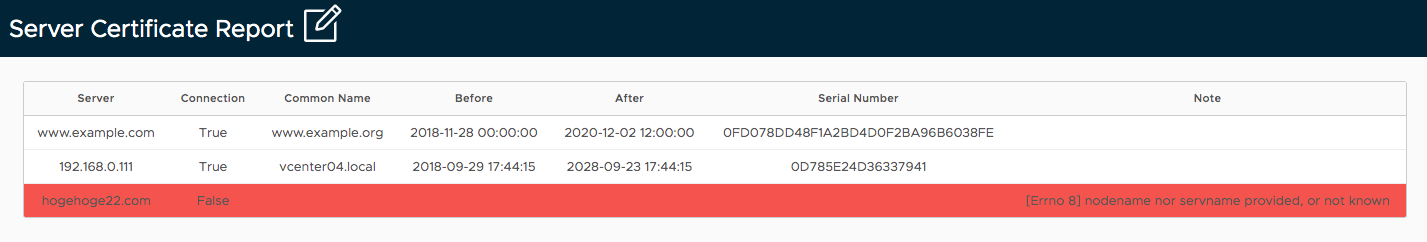
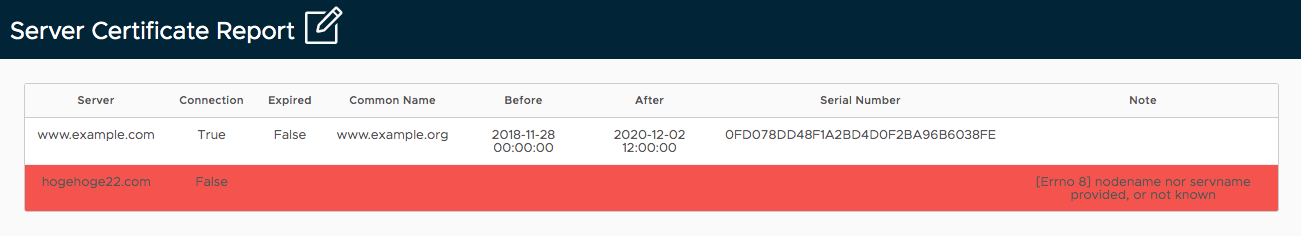
Add `Expired` column to report

diff --git a/example_server_certificate_report.html b/example_server_certificate_report.html
@@ -29,6 +29,7 @@
                         <tr>
                             <th>Server</th>
                             <th>Connection</th>
+                            <th>Expired</th>
                             <th>Common Name</th>
                             <th>Before</th>
                             <th>After</th>
@@ -40,6 +41,7 @@
                         <tr>
                             <td>www.example.com</td>
                             <td>True</td>
+                            <td>False</td>
                             <td>www.example.org</td>
                             <td>2018-11-28 00:00:00</td>
                             <td>2020-12-02 12:00:00</td>
@@ -47,17 +49,9 @@
                             <td></td>
                         </tr>
                         <tr>
-                            <td>192.168.0.111</td>
-                            <td>True</td>
-                            <td>vcenter04.local</td>
-                            <td>2018-09-29 17:44:15</td>
-                            <td>2028-09-23 17:44:15</td>
-                            <td>0D785E24D36337941</td>
-                            <td></td>
-                        </tr>
-                        <tr>
                             <td bgcolor="#F54F47">hogehoge22.com</td>
                             <td bgcolor="#F54F47">False</td>
+                            <td bgcolor="#F54F47"></td>
                             <td bgcolor="#F54F47"></td>
                             <td bgcolor="#F54F47"></td>
                             <td bgcolor="#F54F47"></td>
